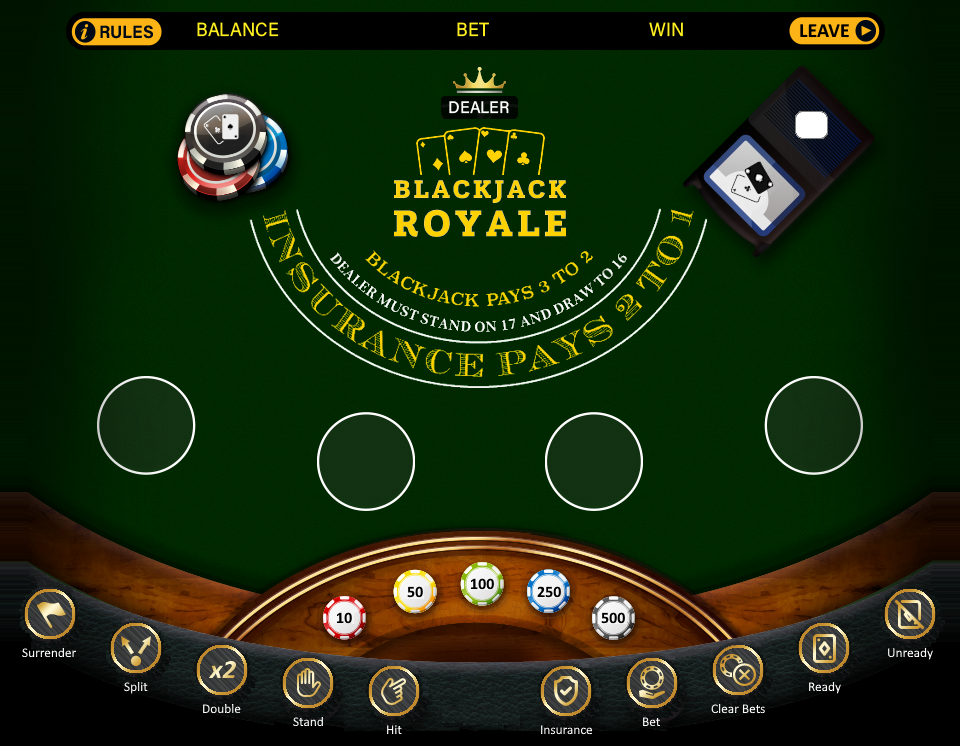
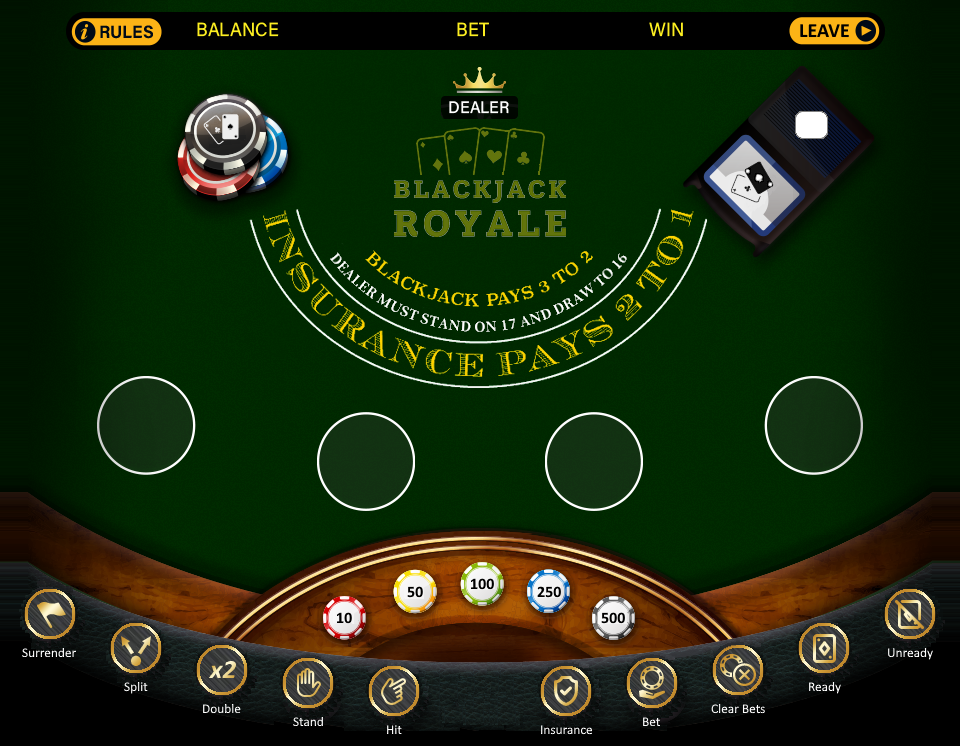
[UPDATE] setting of JWT and new board img

Changed region(s): [[0.4062, 0.1542, 0.5938, 0.3391]]

diff --git a/src/pages/login/index.js b/src/pages/login/index.js
@@ -45,7 +45,7 @@ export default function Login() {
 
                 console.log(response)
 
-                localStorage.setItem("jwt", response.jwt);
+                localStorage.setItem("jwt", response.data);
                 window.location.href = '/game';
             } else {
                 response = await TryLogin(formData.username, formData.password);
@@ -59,7 +59,7 @@ export default function Login() {
 
                 console.log(response)
 
-                localStorage.setItem("jwt", response.jwt);
+                localStorage.setItem("jwt", response.data);
                 window.location.href = '/game';
             }
         } catch (error) {

diff --git a/src/lib/api/requests/websocketservice.js b/src/lib/api/requests/websocketservice.js
@@ -36,9 +36,6 @@ class WebSocketService {
 
         this.socket.onclose = (event) => {
             console.log("WebSocket connection closed", event);
-            // setTimeout(() => {
-            //     this.socket = new WebSocket(url);
-            // }, 5000);
         };
 
         WebSocketService.instance = this;

diff --git a/src/components/ProtectedRoute.js b/src/components/ProtectedRoute.js
@@ -1,6 +1,3 @@
-import React from 'react';
-import { Navigate } from 'react-router-dom';
-
 export default function ProtectedRoute({element, ...rest }){
     const isAuthenticated = !!localStorage.getItem("jwt"); 
 
